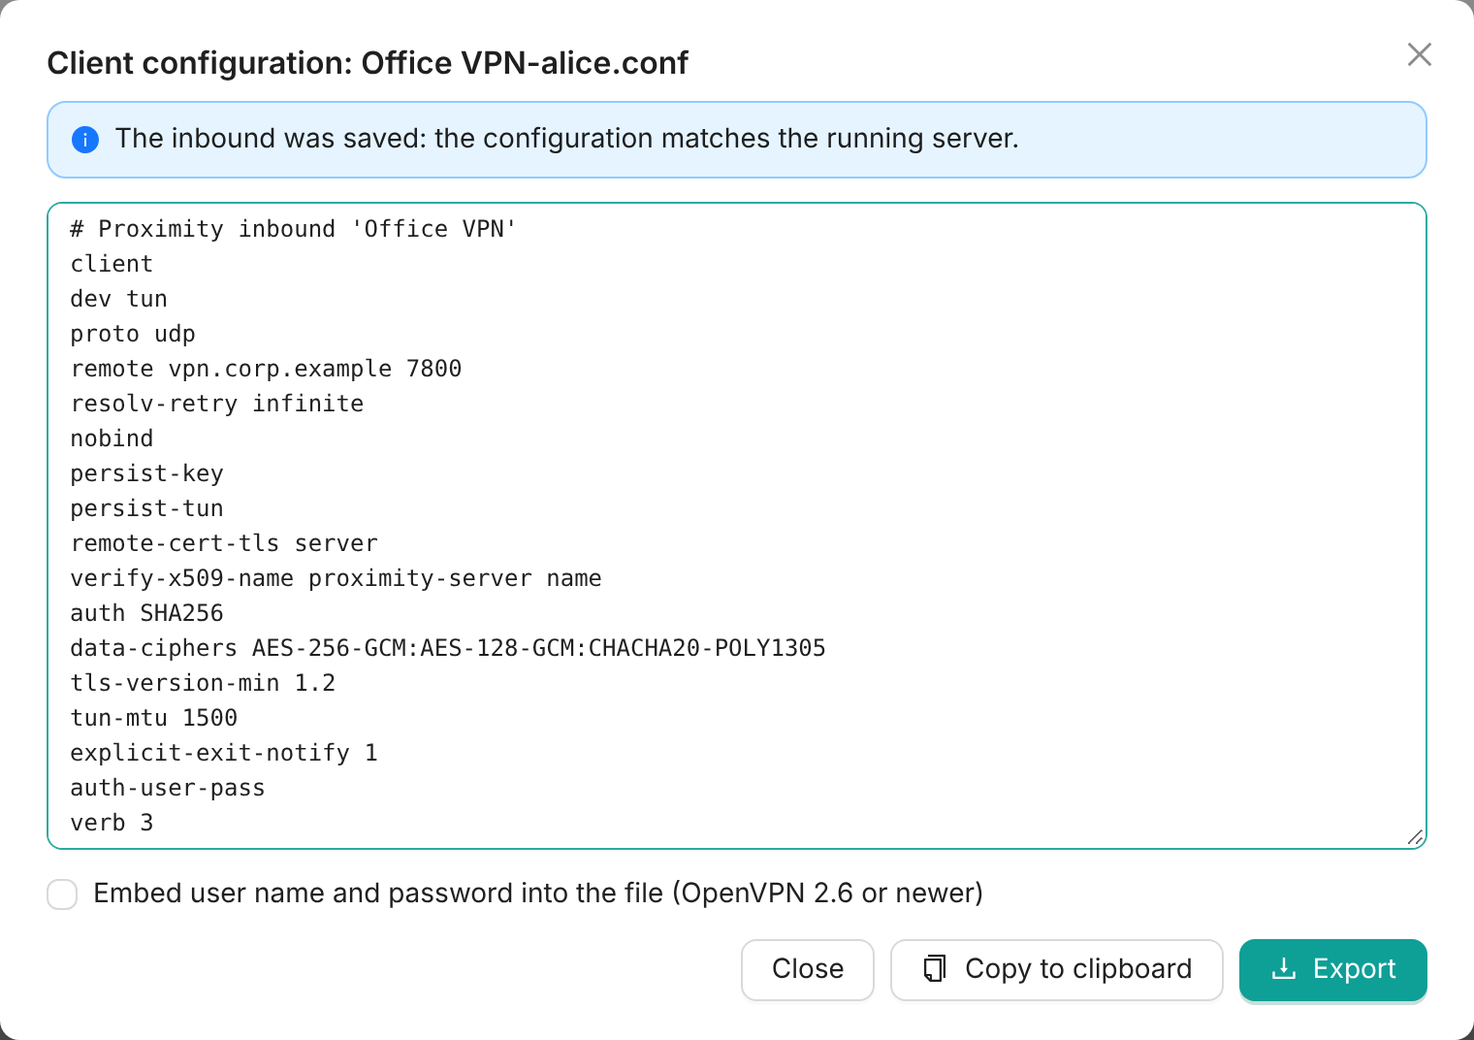
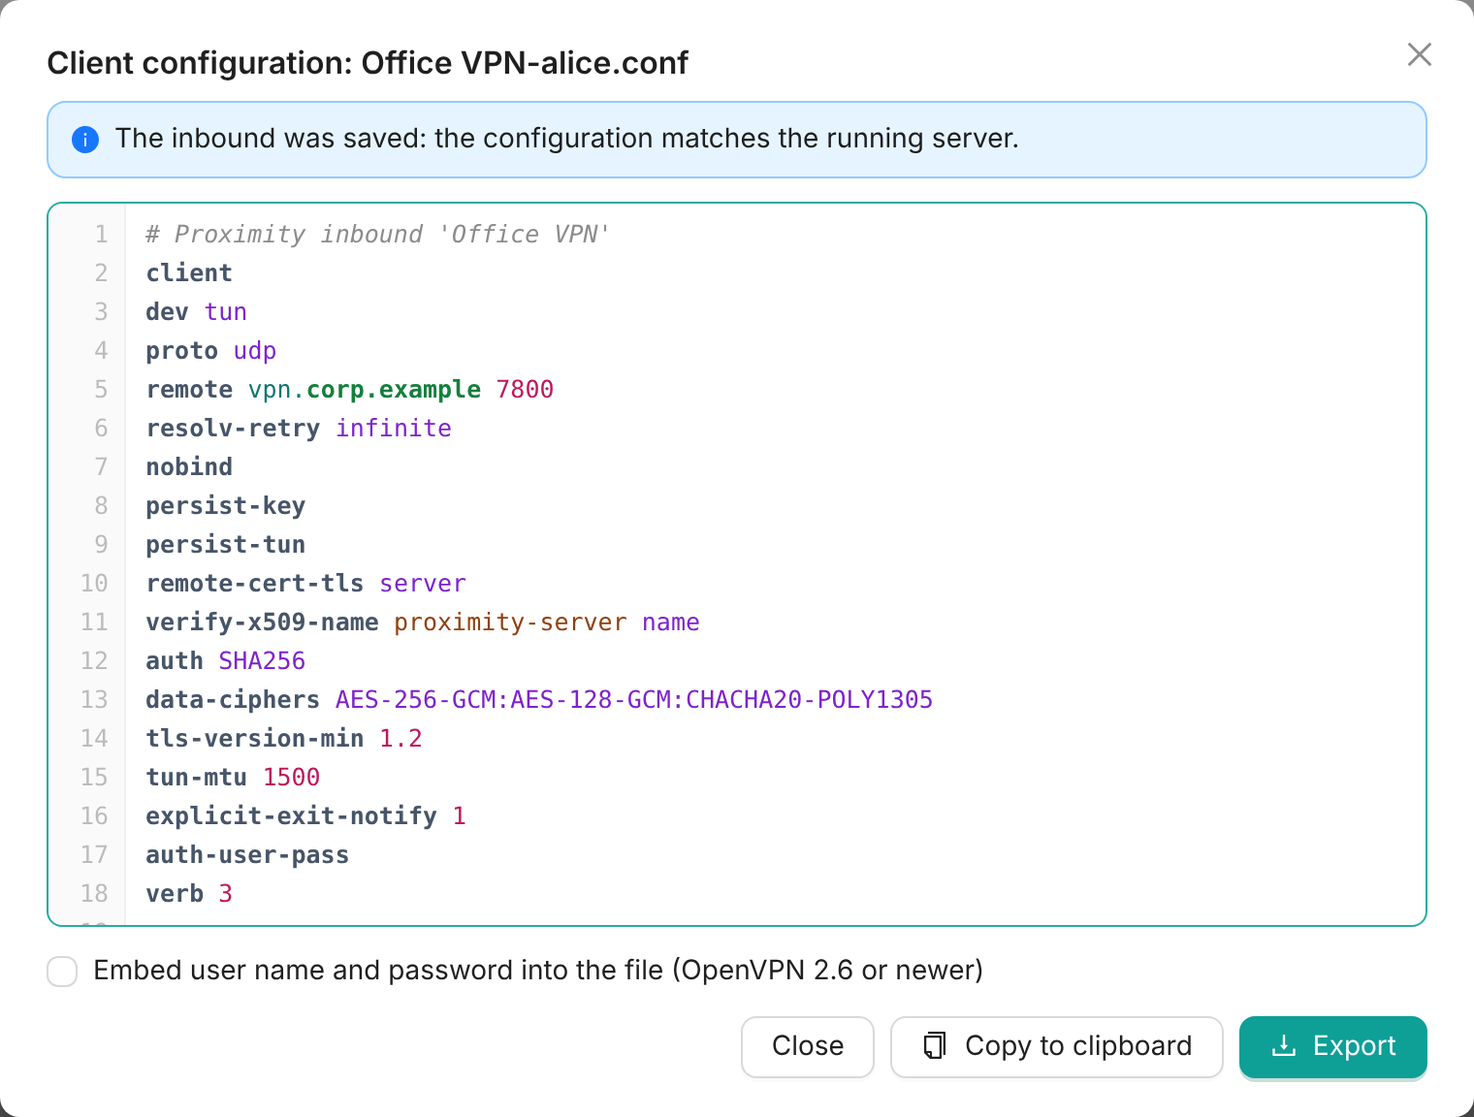
Highlight OpenVPN, AmneziaWG and PEM text fields
Add CodeEditor, a text editor with line numbers and a highlighting
overlay, and highlighters for OpenVPN configurations (directives,
keywords, hosts, addresses, masks, ports, inline blocks), AmneziaWG
configurations (sections, keys, addresses, endpoint, obfuscation
parameters) and PEM keys and certificates. Private and static keys,
PrivateKey, PresharedKey and the auth-user-pass password are red.
Use it for outbound configurations, inbound keys and certificates and
the client configuration preview. Update docs and screenshots.

Changed region(s): [[0.0309, 0.0308, 0.9895, 0.9851], [0.9586, 0.0308, 0.9895, 0.0616]]

diff --git a/web/src/views/InboundDialog.vue b/web/src/views/InboundDialog.vue
@@ -64,10 +64,10 @@
               <a-alert type="info" show-icon style="margin-bottom: 16px" message="Clients must connect with TLS (SOCKS5 over TLS). The certificate is self-signed unless you replace it." />
               <a-form-item :name="['socks5', 'certificate']" :rules="pemRules">
                 <template #label>TLS certificate <a-button type="link" size="small" :loading="generating === 'tls'" @click="regenerate('tls')"><ReloadOutlined /> Regenerate</a-button></template>
-                <a-textarea v-model:value="form.socks5.certificate" class="mono" :rows="5" spellcheck="false" />
+                <CodeEditor v-model:value="form.socks5.certificate" language="pem" :height="112" />
               </a-form-item>
               <a-form-item label="TLS private key" :name="['socks5', 'key']" :rules="pemRules">
-                <a-textarea v-model:value="form.socks5.key" class="mono" :rows="4" spellcheck="false" />
+                <CodeEditor v-model:value="form.socks5.key" language="pem" :height="92" />
               </a-form-item>
             </template>
           </template>
@@ -157,26 +157,26 @@
             </template>
           </a-alert>
           <a-row :gutter="16">
-            <a-col :span="12"><a-form-item label="CA certificate" :name="['openvpn', 'ca_certificate']" :rules="pemRules"><a-textarea v-model:value="form.openvpn.ca_certificate" class="mono" :rows="4" spellcheck="false" /></a-form-item></a-col>
-            <a-col :span="12"><a-form-item label="CA private key" :name="['openvpn', 'ca_key']" extra="Needed only to issue certificates"><a-textarea v-model:value="form.openvpn.ca_key" class="mono" :rows="4" spellcheck="false" /></a-form-item></a-col>
+            <a-col :span="12"><a-form-item label="CA certificate" :name="['openvpn', 'ca_certificate']" :rules="pemRules"><CodeEditor v-model:value="form.openvpn.ca_certificate" language="pem" :height="92" /></a-form-item></a-col>
+            <a-col :span="12"><a-form-item label="CA private key" :name="['openvpn', 'ca_key']" extra="Needed only to issue certificates"><CodeEditor v-model:value="form.openvpn.ca_key" language="pem" :height="92" /></a-form-item></a-col>
             <a-col :span="12">
               <a-form-item :name="['openvpn', 'certificate']" :rules="pemRules">
                 <template #label>Server certificate <a-button type="link" size="small" :loading="generating === 'server'" @click="regenerate('server')"><ReloadOutlined /> Regenerate</a-button></template>
-                <a-textarea v-model:value="form.openvpn.certificate" class="mono" :rows="4" spellcheck="false" />
+                <CodeEditor v-model:value="form.openvpn.certificate" language="pem" :height="92" />
               </a-form-item>
             </a-col>
-            <a-col :span="12"><a-form-item label="Server private key" :name="['openvpn', 'key']" :rules="pemRules"><a-textarea v-model:value="form.openvpn.key" class="mono" :rows="4" spellcheck="false" /></a-form-item></a-col>
+            <a-col :span="12"><a-form-item label="Server private key" :name="['openvpn', 'key']" :rules="pemRules"><CodeEditor v-model:value="form.openvpn.key" language="pem" :height="92" /></a-form-item></a-col>
             <a-col :span="12">
               <a-form-item :name="['openvpn', 'client_certificate']" :rules="pemRules">
                 <template #label>Client certificate <a-button type="link" size="small" :loading="generating === 'client'" @click="regenerate('client')"><ReloadOutlined /> Regenerate</a-button></template>
-                <a-textarea v-model:value="form.openvpn.client_certificate" class="mono" :rows="4" spellcheck="false" />
+                <CodeEditor v-model:value="form.openvpn.client_certificate" language="pem" :height="92" />
               </a-form-item>
             </a-col>
-            <a-col :span="12"><a-form-item label="Client private key" :name="['openvpn', 'client_key']" :rules="pemRules"><a-textarea v-model:value="form.openvpn.client_key" class="mono" :rows="4" spellcheck="false" /></a-form-item></a-col>
+            <a-col :span="12"><a-form-item label="Client private key" :name="['openvpn', 'client_key']" :rules="pemRules"><CodeEditor v-model:value="form.openvpn.client_key" language="pem" :height="92" /></a-form-item></a-col>
             <a-col :span="24">
               <a-form-item :name="['openvpn', 'tls_crypt']" :rules="pemRules">
                 <template #label>TLS-crypt key <a-button type="link" size="small" :loading="generating === 'tls_crypt'" @click="regenerate('tls_crypt')"><ReloadOutlined /> Regenerate</a-button></template>
-                <a-textarea v-model:value="form.openvpn.tls_crypt" class="mono" :rows="4" spellcheck="false" />
+                <CodeEditor v-model:value="form.openvpn.tls_crypt" language="pem" :height="92" />
               </a-form-item>
             </a-col>
           </a-row>
@@ -222,7 +222,7 @@
     </a-form>
     <a-modal v-model:open="exportVisible" :title="`Client configuration: ${exported.file}`" width="760px" destroy-on-close>
       <a-alert v-if="exported.notice" type="info" show-icon style="margin-bottom: 12px" :message="exported.notice" />
-      <a-textarea :value="exported.config" class="mono" :rows="18" readonly spellcheck="false" />
+      <CodeEditor :value="exported.config" language="openvpn" readonly :height="372" />
       <a-checkbox v-if="exported.user" v-model:checked="exported.embed" style="margin-top: 12px" @change="fetchExport">Embed user name and password into the file (OpenVPN 2.6 or newer)</a-checkbox>
       <template #footer>
         <a-button @click="exportVisible = false">Close</a-button>
@@ -243,6 +243,7 @@ import {
 import { api, id } from '../api'
 import { copyText } from '../clipboard'
 import { inboundLabels } from '../format'
+import CodeEditor from '../components/CodeEditor.vue'
 
 const props = defineProps({
   open: Boolean,

diff --git a/web/src/components/vpnSyntax.js b/web/src/components/vpnSyntax.js
@@ -1,0 +1,123 @@
+import { scalar } from './configSyntax'
+
+const keywords = new Set(['udp', 'tcp', 'udp4', 'udp6', 'tcp4', 'tcp6', 'tcp-client', 'tcp-server', 'tun', 'tap', 'client',
+  'server', 'net30', 'p2p', 'subnet', 'none', 'nointeract', 'interact', 'def1', 'bypass-dhcp', 'bypass-dns', 'block-local',
+  'local', 'auto', 'adaptive', 'yes', 'no', 'via-file', 'via-env', 'exit-event', 'infinite', 'name', 'name-prefix',
+  'subject', 'net_gateway', 'vpn_gateway', 'remote_host', 'default'])
+const maskDirectives = ['route', 'ifconfig', 'server', 'ifconfig-push', 'push-reset']
+const secretBlocks = ['key', 'tls-crypt', 'tls-auth', 'tls-crypt-v2', 'secret', 'pkcs12']
+const secretKeys = ['privatekey', 'presharedkey']
+const numberKeys = ['jc', 'jmin', 'jmax', 's1', 's2', 's3', 's4', 'h1', 'h2', 'h3', 'h4', 'mtu', 'listenport',
+  'persistentkeepalive', 'fwmark', 'table']
+const listKeys = ['address', 'allowedips', 'dns']
+const maskPattern = /^(?:255|254|252|248|240|224|192|128|0)(?:\.(?:255|254|252|248|240|224|192|128|0)){3}$/
+const pemPattern = /^-----(BEGIN|END) [A-Za-z0-9 ]+-----$/
+
+const token = (text, kind) => ({ text, kind })
+
+function comment(line) {
+  const found = line.match(/^(\s*)([#;].*)$/)
+  return found ? [token(found[1], 'plain'), token(found[2], 'comment')].filter((part) => part.text) : null
+}
+
+function words(text) {
+  return text.match(/"(?:[^"\\]|\\.)*"|'[^']*'|\S+|\s+/g) || []
+}
+
+function argument(word, directive, index) {
+  if (/^\s+$/.test(word)) return [token(word, 'plain')]
+  if (/^["'].*["']$/.test(word)) {
+    const inner = word.slice(1, -1)
+    const parts = directive === 'push' ? openvpnLine(inner) : [token(inner, 'string')]
+    return [token(word[0], 'punctuation'), ...parts, token(word[word.length - 1], 'punctuation')]
+  }
+  if (maskDirectives.includes(directive) && index === 2 && maskPattern.test(word)) return [token(word, 'mask')]
+  if (/^\d+$/.test(word)) return [token(word, index === 2 && /^remote|^port|^lport|^rport/.test(directive) ? 'port' : 'number')]
+  if (/^\d+\.\d+$/.test(word)) return [token(word, 'number')]
+  if (keywords.has(word) || /^[A-Z][A-Z0-9]*(?:-[A-Z0-9]+)*(?::[A-Z0-9-]+)*$/.test(word)) return [token(word, 'keyword')]
+  if (/^[/~.]/.test(word)) return [token(word, 'string')]
+  return scalar(word)
+}
+
+function openvpnLine(line) {
+  const remark = comment(line)
+  if (remark) return remark
+  const result = []
+  let directive = ''
+  let index = 0
+  for (const word of words(line)) {
+    if (/^\s+$/.test(word)) {
+      result.push(token(word, 'plain'))
+    } else if (!directive) {
+      directive = word
+      result.push(token(word, 'directive'))
+      index = 1
+    } else {
+      result.push(...argument(word, directive, index))
+      index++
+    }
+  }
+  return result
+}
+
+function pemLine(line, secret) {
+  if (pemPattern.test(line.trim())) return [token(line, 'pem')]
+  if (/^#/.test(line.trim())) return [token(line, 'comment')]
+  return [token(line, secret ? 'secret' : 'base64')]
+}
+
+export function highlightOpenVPN(text) {
+  let block = ''
+  let position = 0
+  return text.split('\n').map((line) => {
+    const tag = line.trim().match(/^<(\/?)([a-z0-9-]+)>$/)
+    if (tag) {
+      block = tag[1] ? '' : tag[2]
+      position = 0
+      return [token(line, 'tag')]
+    }
+    if (!block) return openvpnLine(line)
+    position++
+    if (block === 'connection') return openvpnLine(line)
+    if (block === 'auth-user-pass') return [token(line, position === 1 ? 'string' : 'secret')]
+    return pemLine(line, secretBlocks.includes(block))
+  })
+}
+
+function list(value) {
+  return value.split(/(\s*,\s*)/).flatMap((part) => /,/.test(part) ? [token(part, 'punctuation')] : part ? scalar(part) : [])
+}
+
+export function highlightAmnezia(text) {
+  return text.split('\n').map((line) => {
+    const remark = comment(line)
+    if (remark) return remark
+    if (/^\s*\[[^\]]+\]\s*$/.test(line)) return [token(line, 'tag')]
+    const found = line.match(/^(\s*)([^=\s]+)(\s*=\s*)(.*?)(\s*)$/)
+    if (!found) return [token(line, 'plain')]
+    const [, lead, key, equals, value, trail] = found
+    const name = key.toLowerCase()
+    let parts = [token(value, 'string')]
+    if (secretKeys.includes(name)) parts = [token(value, 'secret')]
+    else if (name === 'publickey') parts = [token(value, 'base64')]
+    else if (numberKeys.includes(name) && /^\d+$/.test(value)) parts = [token(value, 'number')]
+    else if (listKeys.includes(name)) parts = list(value)
+    else if (name === 'endpoint') parts = scalar(value)
+    return [token(lead, 'plain'), token(key, 'key'), token(equals, 'punctuation'), ...parts, token(trail, 'plain')]
+      .filter((part) => part.text)
+  })
+}
+
+export function highlightPEM(text) {
+  let secret = false
+  return text.split('\n').map((line) => {
+    const found = line.trim().match(pemPattern)
+    if (found) {
+      secret = found[1] === 'BEGIN' && /PRIVATE KEY|Static key/i.test(line)
+      return [token(line, 'pem')]
+    }
+    return pemLine(line, secret)
+  })
+}
+
+export const highlighters = { openvpn: highlightOpenVPN, amneziawg: highlightAmnezia, pem: highlightPEM }

diff --git a/web/src/components/CodeEditor.vue b/web/src/components/CodeEditor.vue
@@ -1,0 +1,79 @@
+<template>
+  <div :class="['code-editor', { 'rule-dark': dark, 'code-editor-disabled': disabled }]">
+    <div v-if="$slots.toolbar" class="code-toolbar"><slot name="toolbar" /></div>
+    <div class="code-body" :style="{ height: `${height}px` }">
+      <div class="code-gutter" aria-hidden="true">
+        <div :style="{ transform: `translateY(${-scroll.top}px)` }">
+          <div v-for="number in highlighted.length" :key="number" class="code-line">{{ number }}</div>
+        </div>
+      </div>
+      <div class="code-area">
+        <pre class="code-highlight" aria-hidden="true" :style="{ transform: `translate(${-scroll.left}px, ${-scroll.top}px)` }"><template
+          v-for="(line, index) in highlighted" :key="index"><span v-for="(part, position) in line" :key="position"
+          :class="`rule-${part.kind}`">{{ part.text }}</span>{{ '\n' }}</template> </pre>
+        <textarea class="code-input" :value="value" :disabled="disabled" :readonly="readonly" wrap="off" spellcheck="false"
+          autocomplete="off" autocapitalize="off" :placeholder="placeholder" @input="changed($event.target.value)"
+          @scroll="scrolled" @blur="formItem.onFieldBlur()" />
+      </div>
+    </div>
+  </div>
+</template>
+
+<script setup>
+import { computed, reactive } from 'vue'
+import { Form, theme } from 'ant-design-vue'
+import { highlighters } from './vpnSyntax'
+import { useDarkTheme } from './ruleTheme'
+import './rule-colors.css'
+
+const props = defineProps({
+  value: { type: String, default: '' },
+  language: { type: String, default: 'openvpn' },
+  disabled: Boolean,
+  readonly: Boolean,
+  placeholder: { type: String, default: '' },
+  height: { type: Number, default: 240 }
+})
+const emit = defineEmits(['update:value', 'change'])
+
+const formItem = Form.useInjectFormItemContext()
+const { token } = theme.useToken()
+const dark = useDarkTheme(token)
+const scroll = reactive({ top: 0, left: 0 })
+const highlighted = computed(() => (highlighters[props.language] || highlighters.openvpn)(props.value))
+
+function changed(text) {
+  emit('update:value', text)
+  emit('change', text)
+  formItem.onFieldChange()
+}
+
+function scrolled(event) {
+  scroll.top = event.target.scrollTop
+  scroll.left = event.target.scrollLeft
+}
+</script>
+
+<style scoped>
+.code-editor { border: 1px solid v-bind('token.colorBorder'); border-radius: v-bind('`${token.borderRadius}px`'); overflow: hidden;
+  background: v-bind('token.colorBgContainer'); transition: border-color .2s, box-shadow .2s; }
+.code-editor:hover { border-color: v-bind('token.colorPrimaryHover'); }
+.code-editor:focus-within { border-color: v-bind('token.colorPrimary'); box-shadow: 0 0 0 2px v-bind('token.controlOutline'); }
+.code-editor-disabled, .code-editor-disabled:hover { border-color: v-bind('token.colorBorder'); background: v-bind('token.colorBgContainerDisabled'); }
+.code-toolbar { display: flex; align-items: center; gap: 2px; padding: 3px 6px; border-bottom: 1px solid v-bind('token.colorBorderSecondary');
+  background: v-bind('token.colorFillQuaternary'); }
+.code-body { display: flex; position: relative; }
+.code-gutter { flex: none; width: 40px; overflow: hidden; padding: 6px 0; box-sizing: border-box; text-align: right;
+  border-right: 1px solid v-bind('token.colorBorderSecondary'); background: v-bind('token.colorFillQuaternary');
+  color: v-bind('token.colorTextQuaternary'); user-select: none; }
+.code-line { padding-right: 8px; }
+.code-area { position: relative; flex: 1; min-width: 0; overflow: hidden; }
+.code-line, .code-highlight, .code-input { font-family: var(--font-mono); font-size: 12.5px; line-height: 20px; tab-size: 2; }
+.code-highlight, .code-input { margin: 0; padding: 6px 10px; box-sizing: border-box; white-space: pre; letter-spacing: 0; font-variant-ligatures: none; }
+.code-highlight { position: absolute; left: 0; top: 0; min-width: 100%; pointer-events: none; color: v-bind('token.colorText'); }
+.code-input { position: absolute; inset: 0; width: 100%; height: 100%; resize: none; border: 0; outline: 0; background: transparent;
+  color: transparent; caret-color: v-bind('token.colorText'); overflow: auto; }
+.code-input::placeholder { color: v-bind('token.colorTextPlaceholder'); }
+.code-input::selection { background: rgba(22, 119, 255, .25); color: transparent; }
+.code-input:disabled { cursor: not-allowed; }
+</style>

diff --git a/web/src/views/OutboundDialog.vue b/web/src/views/OutboundDialog.vue
@@ -90,7 +90,7 @@
               <a-upload :before-upload="readText('openvpn')" :show-upload-list="false" accept=".ovpn,.conf,.txt">
                 <a-button size="small" style="margin-bottom: 8px"><template #icon><UploadOutlined /></template>Upload .ovpn file</a-button>
               </a-upload>
-              <a-textarea v-model:value="form.openvpn.config" class="mono" :rows="10" placeholder="client&#10;dev tun&#10;remote vpn.example.com 1194 udp&#10;…" spellcheck="false" />
+              <CodeEditor v-model:value="form.openvpn.config" language="openvpn" :height="280" placeholder="client&#10;dev tun&#10;remote vpn.example.com 1194 udp&#10;…" />
             </a-form-item>
             <a-form-item label="Use DNS servers pushed by VPN" extra="For domains routed to this outbound"><a-switch v-model:checked="form.openvpn.use_dns" /></a-form-item>
           </template>
@@ -105,7 +105,7 @@
                 </a-upload>
                 <a-button size="small" @click="importKey"><template #icon><ImportOutlined /></template>Convert vpn:// key</a-button>
               </a-space>
-              <a-textarea v-model:value="form.amneziawg.config" class="mono" :rows="12" placeholder="[Interface]&#10;PrivateKey = …&#10;Address = 10.8.1.2/32&#10;Jc = 4&#10;…&#10;[Peer]&#10;PublicKey = …&#10;Endpoint = host:port&#10;AllowedIPs = 0.0.0.0/0" spellcheck="false" />
+              <CodeEditor v-model:value="form.amneziawg.config" language="amneziawg" :height="300" placeholder="[Interface]&#10;PrivateKey = …&#10;Address = 10.8.1.2/32&#10;Jc = 4&#10;…&#10;[Peer]&#10;PublicKey = …&#10;Endpoint = host:port&#10;AllowedIPs = 0.0.0.0/0" />
             </a-form-item>
             <a-form-item label="Use DNS servers from configuration" extra="For domains routed to this outbound"><a-switch v-model:checked="form.amneziawg.use_dns" /></a-form-item>
           </template>
@@ -158,6 +158,7 @@ import { ControlOutlined, HeartOutlined, IdcardOutlined, ImportOutlined, Profile
 import jsQR from 'jsqr'
 import { api, id } from '../api'
 import { typeLabels } from '../format'
+import CodeEditor from '../components/CodeEditor.vue'
 
 const props = defineProps({
   open: Boolean,

diff --git a/web/src/components/rule-colors.css b/web/src/components/rule-colors.css
@@ -36,3 +36,9 @@
 .rule-dark .rule-string { color: #e5c07b; }
 .rule-secret { color: #b91c1c; font-style: italic; }
 .rule-dark .rule-secret { color: #fca5a5; }
+.rule-tag { color: #7c3aed; font-weight: 600; }
+.rule-pem { color: #0369a1; font-weight: 600; }
+.rule-base64 { color: #8a8f98; }
+.rule-dark .rule-tag { color: #c4b5fd; }
+.rule-dark .rule-pem { color: #7dd3fc; }
+.rule-dark .rule-base64 { color: #7b8794; }

diff --git a/web/src/components/configSyntax.js b/web/src/components/configSyntax.js
@@ -22,7 +22,7 @@ function clean(tokens) {
   return tokens.length && !tokens.some((part) => part.kind === 'error') ? tokens : null
 }
 
-function scalar(text) {
+export function scalar(text) {
   if (portPattern.test(text)) return [token(text, 'number')]
   const address = clean(highlightLine(text, 'IP-CIDR'))
   if (address) return address

diff --git a/docs/user-guide.md b/docs/user-guide.md
@@ -224,7 +224,10 @@ Tabs: **General**, **OpenVPN**, **Authentication**, **Monitoring**.
 **OpenVPN** tab (above):
 
 - **VPN configuration file** — *Upload .ovpn file* or paste/edit the text; inline
-  `<ca>`, `<cert>`, `<key>`, `<tls-auth>` blocks are supported.
+  `<ca>`, `<cert>`, `<key>`, `<tls-auth>` blocks are supported. The editor numbers the
+  lines and highlights them: directives, protocols and other keywords, host names, IP
+  addresses, netmasks and ports, comments, inline block tags, certificates; private keys,
+  static keys and the password of `<auth-user-pass>` are shown in red.
 - **Use DNS servers pushed by VPN** — resolve the domains of routes that target this
   outbound through the VPN's DNS.
 
@@ -245,7 +248,9 @@ as **Routes of OpenVPN N**.
 
 ![AmneziaWG outbound](images/outbound-amneziawg.png)
 
-- **Upload .conf file** or paste the configuration.
+- **Upload .conf file** or paste the configuration. The editor highlights sections, keys,
+  addresses and masks, the endpoint, numbers of the obfuscation parameters (`Jc`, `Jmin`,
+  `Jmax`, `S1`, `S2`, `H1`–`H4`) and shows `PrivateKey` and `PresharedKey` in red.
 - **Scan QR code from image** — choose a screenshot/photo of the QR code from the Amnezia
   app; it is decoded in the browser.
 - **Convert vpn:// key** — paste the `vpn://…` key exported by the Amnezia app and press
@@ -413,7 +418,7 @@ The OpenVPN inbound dialog has the tabs **General**, **Server**, **Clients**, **
 | Server | *Public address* and *Public port* (what clients connect to; written to exported configurations), *Protocol* UDP/TCP, *Listen address*, *VPN network* (`10.77.<N>.0/24` when empty), *Maximum clients*, *Tunnel MTU*, *Log verbosity* |
 | Clients | *Route all client traffic through the VPN*, *Clients can reach each other*, *Additional routes*, *DNS servers* (empty: the Proximity resolver, so domain routes work for VPN clients) |
 | Security | *Data ciphers*, *HMAC digest*, *Minimum TLS version*, *Renegotiation*, *Keepalive*, *Require one-time code (TOTP)* with the *TOTP key* |
-| Keys and certificates | CA certificate and key, server certificate and key, client certificate and key, TLS-crypt key |
+| Keys and certificates | CA certificate and key, server certificate and key, client certificate and key, TLS-crypt key. The fields highlight the `BEGIN` / `END` lines; the body of private and static keys is red |
 
 Keys, certificates, the TLS-crypt key and the TOTP key are generated automatically when
 the dialog opens. Every field can be edited (paste your own PEM text) or regenerated with
@@ -433,7 +438,7 @@ password.
 |---|---|
 | Allow anonymous connections | SOCKS5: no authentication at all, the list is not checked. OpenVPN: a client with the certificate connects without user name and password |
 | User list | *Enabled*, *User name*, *Password* (⚡ generates a random one), delete |
-| Export configuration (OpenVPN) | Saves the inbound and opens a read-only preview of the client configuration with **Copy to clipboard** and **Export**. The file is named `<ID>-<username>.conf`. *Embed user name and password* writes the credentials into the file (OpenVPN 2.6 or newer) |
+| Export configuration (OpenVPN) | Saves the inbound and opens a read-only, highlighted preview of the client configuration with **Copy to clipboard** and **Export**. The file is named `<ID>-<username>.conf`. *Embed user name and password* writes the credentials into the file (OpenVPN 2.6 or newer) |
 
 ![Client configuration](images/inbound-export.png)
 

diff --git a/docs/development.md b/docs/development.md
@@ -136,6 +136,7 @@ repository every second, so edits in `web/src` reload the page. Run the Go binar
 | `src/components/RuleEditor.vue` | route parameters editor: highlighting overlay, line numbers, load, save and sort |
 | `src/components/logSyntax.js` | log line parser for `LogView.vue`: time stamp, severity, IP addresses, quoted text, level words, links |
 | `src/components/RulePreview.vue` | highlighted, numbered list of the generated router rules with **Copy** |
+| `src/components/CodeEditor.vue`, `vpnSyntax.js` | text editor with line numbers and a highlighting overlay for OpenVPN configurations, AmneziaWG / WireGuard configurations and PEM keys and certificates; used in the outbound and inbound dialogs and the client configuration preview |
 | `src/components/ConfigView.vue`, `configSyntax.js` | generated mihomo configuration: JSON and YAML (js-yaml) views with line-based highlighting (keys, strings, numbers, addresses, domains, targets, rules, secrets), **Hide passwords**, **Copy** and **Save** |
 | `src/components/ruleSyntax.js` | tokenizers for route parameters and generated router rules, the sort used by the editor |
 | `src/components/rule-colors.css`, `ruleTheme.js` | token colors for the light and dark themes shared by the editor and the preview |
